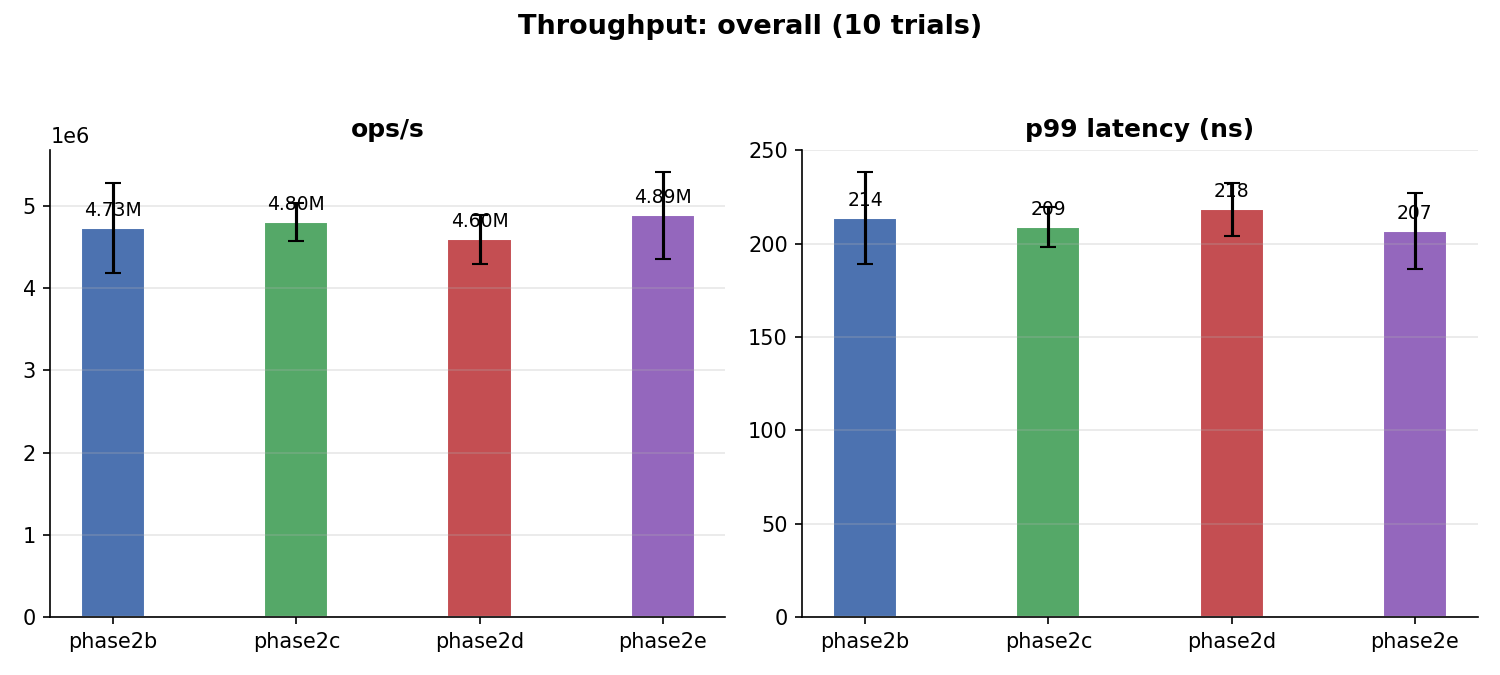
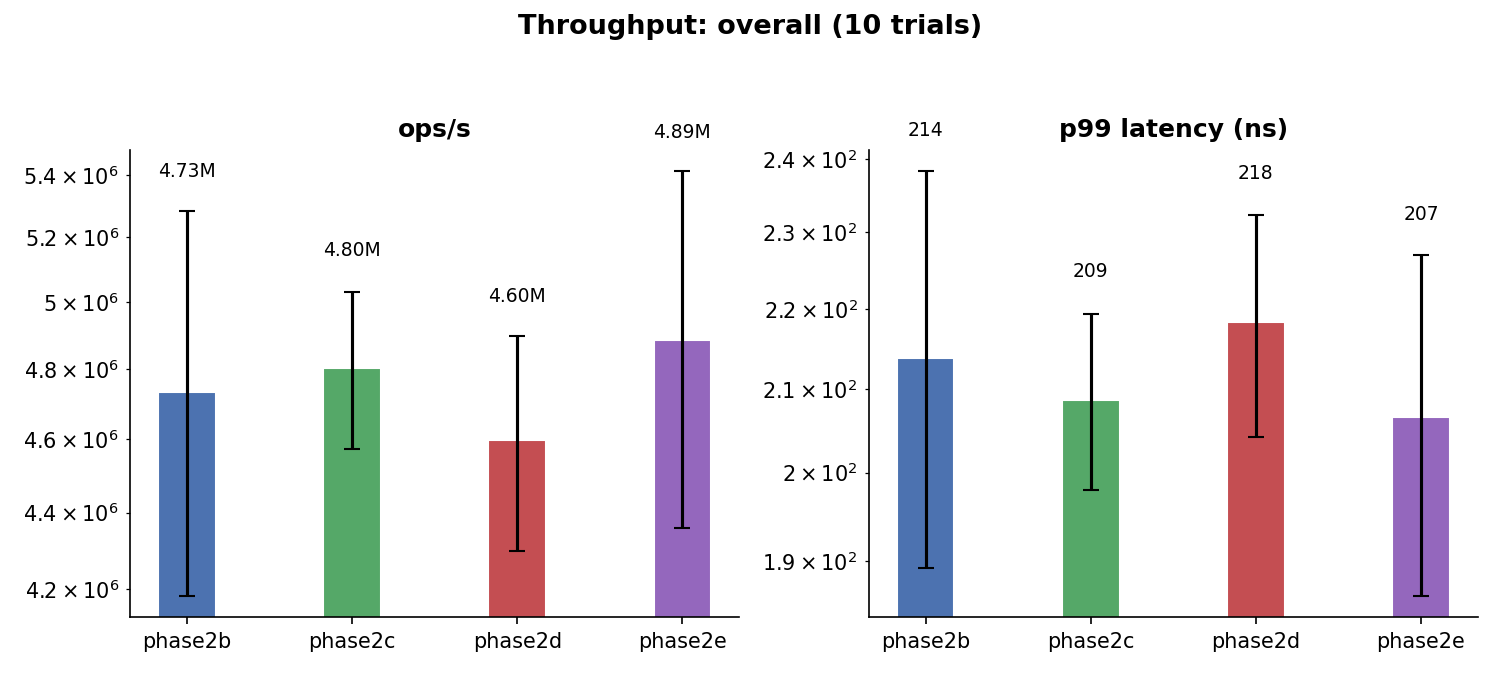
fix: adjust bar label position relative to each bar's own error bar

diff --git a/report/plot_overall_comparison.py b/report/plot_overall_comparison.py
@@ -118,7 +118,7 @@ for ax, (label, mean_col, std_col) in zip(axes, metrics):
     bars = ax.bar(x, means, bar_width, yerr=stds, capsize=4,
                   color=colors, edgecolor="white", error_kw={"linewidth": 1.5})
     for bar, v, s in zip(bars, means, stds):
-        ax.text(bar.get_x() + bar.get_width() / 2, v + s,
+        ax.text(bar.get_x() + bar.get_width() / 2, v + s + v * 0.02,
                 fmt_val(v), ha="center", va="bottom", fontsize=9)
 
     ax.set_xticks(x)